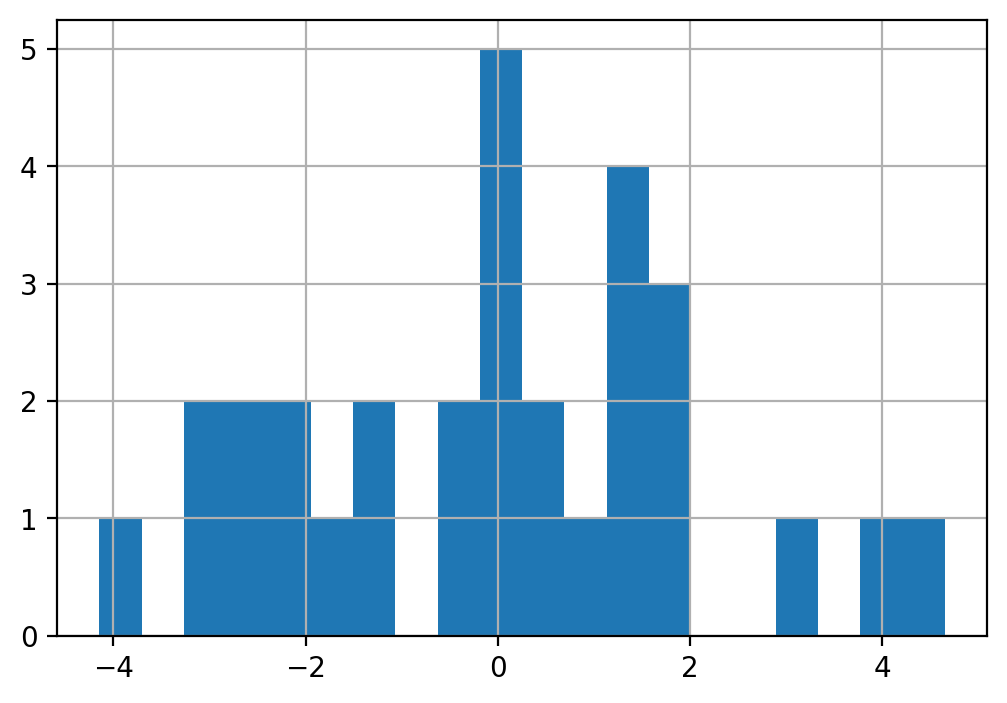
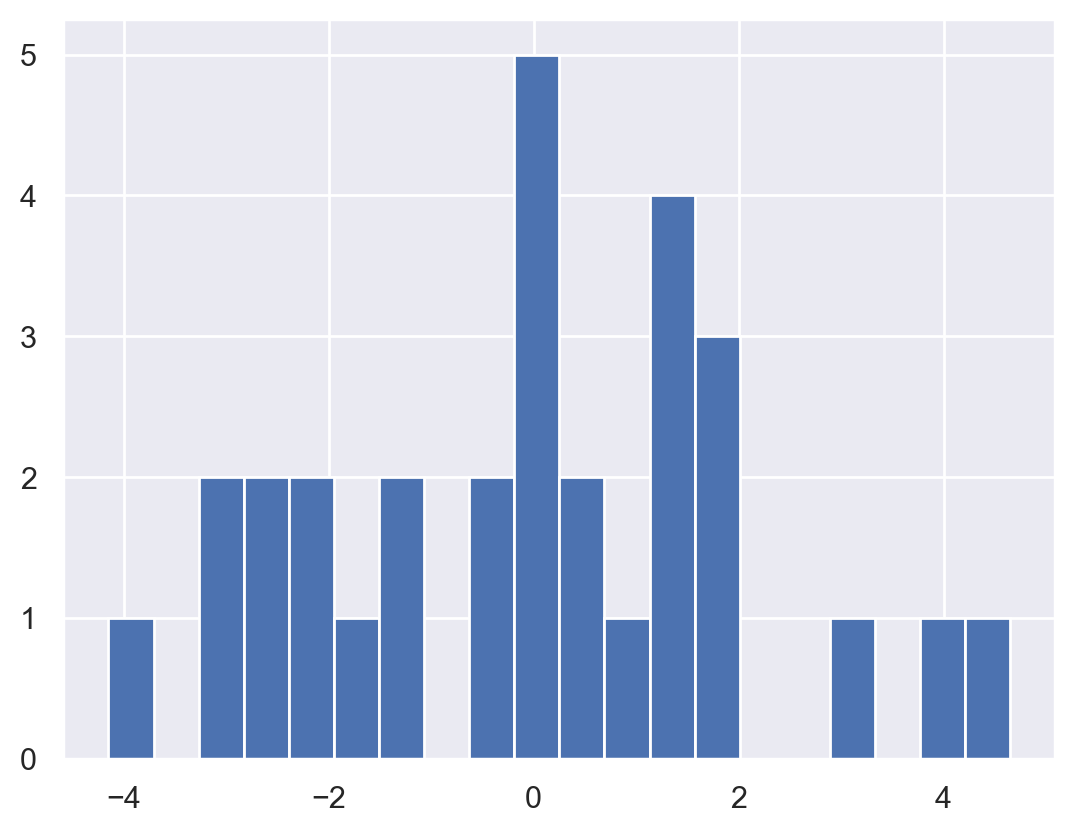
d

diff --git a/docs/contents/Modelling/model-basic.html b/docs/contents/Modelling/model-basic.html
@@ -605,7 +605,7 @@ window.Quarto = {
 <div>
 
 </div>
-<div id="cell-5" class="cell quarto-layout-panel" data-execution_count="45" data-layout-ncol="2">
+<div id="cell-5" class="cell quarto-layout-panel" data-layout-ncol="2" data-execution_count="45">
 <div class="quarto-layout-row">
 <div class="quarto-layout-cell" style="flex-basis: 50.0%;justify-content: center;">
 <p><img src="model-basic_files/figure-html/cell-5-output-1.png" class="img-fluid" width="630"></p>
@@ -791,7 +791,7 @@ The goal of a model is not to uncover truth, but to discover a simple approximat
 <section id="a-simple-model" class="level2">
 <h2 class="anchored" data-anchor-id="a-simple-model">A simple model</h2>
 <p>Data: <a href="https://www.dropbox.com/s/z37caxcbr0xbutt/sim1.csv?dl=1">sim1.csv</a></p>
-<div id="cell-15" class="cell" data-execution_count="3">
+<div id="cell-15" class="cell">
 <div class="sourceCode cell-code" id="cb3"><pre class="sourceCode python code-with-copy"><code class="sourceCode python"><span id="cb3-1"><a href="#cb3-1" aria-hidden="true" tabindex="-1"></a>sim1 <span class="op">=</span> pd.read_csv(<span class="st">"data/sim1.csv"</span>)</span></code><button title="Copy to Clipboard" class="code-copy-button"><i class="bi"></i></button></pre></div>
 </div>
 <div>
@@ -955,12 +955,12 @@ Model evaluation
 </div>
 <p>이렇게 squared error가 최소가 되도록 추정하는 것을 ordinary least squares(OLS) estimattion라고 함.<br>
 실제로는 위에서 처럼 grid search를 하지 않고, closed-form solution을 통해 바로 구할 수 있음.</p>
-<div id="cell-40" class="cell" data-execution_count="204">
+<div id="cell-40" class="cell" data-execution_count="11">
 <div class="sourceCode cell-code" id="cb10"><pre class="sourceCode python code-with-copy"><code class="sourceCode python"><span id="cb10-1"><a href="#cb10-1" aria-hidden="true" tabindex="-1"></a><span class="im">from</span> statsmodels.formula.api <span class="im">import</span> ols</span>
 <span id="cb10-2"><a href="#cb10-2" aria-hidden="true" tabindex="-1"></a></span>
 <span id="cb10-3"><a href="#cb10-3" aria-hidden="true" tabindex="-1"></a>mod <span class="op">=</span> ols(<span class="st">'y ~ x'</span>, data<span class="op">=</span>sim1).fit()</span>
-<span id="cb10-4"><a href="#cb10-4" aria-hidden="true" tabindex="-1"></a>display(mod.summary().tables[<span class="dv">0</span>], mod.summary().tables[<span class="dv">1</span>])</span></code><button title="Copy to Clipboard" class="code-copy-button"><i class="bi"></i></button></pre></div>
-<div class="cell-output cell-output-display">
+<span id="cb10-4"><a href="#cb10-4" aria-hidden="true" tabindex="-1"></a>mod.summary()</span></code><button title="Copy to Clipboard" class="code-copy-button"><i class="bi"></i></button></pre></div>
+<div class="cell-output cell-output-display" data-execution_count="11">
 <table class="simpletable caption-top table table-sm table-striped small" data-quarto-postprocess="true">
 <caption>OLS Regression Results</caption>
 <tbody>
@@ -984,13 +984,13 @@ Model evaluation
 </tr>
 <tr class="even">
 <td data-quarto-table-cell-role="th">Date:</td>
-<td>Thu, 04 Apr 2024</td>
+<td>Wed, 14 May 2025</td>
 <td data-quarto-table-cell-role="th">Prob (F-statistic):</td>
 <td>1.17e-14</td>
 </tr>
 <tr class="odd">
 <td data-quarto-table-cell-role="th">Time:</td>
-<td>05:56:18</td>
+<td>11:42:02</td>
 <td data-quarto-table-cell-role="th">Log-Likelihood:</td>
 <td>-65.226</td>
 </tr>
@@ -1020,8 +1020,8 @@ Model evaluation
 </tr>
 </tbody>
 </table>
-</div>
-<div class="cell-output cell-output-display">
+
+
 <table class="simpletable caption-top table table-sm table-striped small" data-quarto-postprocess="true">
 <tbody>
 <tr class="odd">
@@ -1053,6 +1053,37 @@ Model evaluation
 </tr>
 </tbody>
 </table>
+
+
+<table class="simpletable caption-top table table-sm table-striped small" data-quarto-postprocess="true">
+<tbody>
+<tr class="odd">
+<td data-quarto-table-cell-role="th">Omnibus:</td>
+<td>0.125</td>
+<td data-quarto-table-cell-role="th">Durbin-Watson:</td>
+<td>2.254</td>
+</tr>
+<tr class="even">
+<td data-quarto-table-cell-role="th">Prob(Omnibus):</td>
+<td>0.939</td>
+<td data-quarto-table-cell-role="th">Jarque-Bera (JB):</td>
+<td>0.333</td>
+</tr>
+<tr class="odd">
+<td data-quarto-table-cell-role="th">Skew:</td>
+<td>0.081</td>
+<td data-quarto-table-cell-role="th">Prob(JB):</td>
+<td>0.847</td>
+</tr>
+<tr class="even">
+<td data-quarto-table-cell-role="th">Kurtosis:</td>
+<td>2.510</td>
+<td data-quarto-table-cell-role="th">Cond. No.</td>
+<td>13.7</td>
+</tr>
+</tbody>
+</table>
+<br><br>Notes:<br>[1] Standard Errors assume that the covariance matrix of the errors is correctly specified.
 </div>
 </div>
 <p><br></p>
@@ -1166,10 +1197,10 @@ Important
 </ul>
 <div class="sourceCode" id="cb14"><pre class="sourceCode python code-with-copy"><code class="sourceCode python"><span id="cb14-1"><a href="#cb14-1" aria-hidden="true" tabindex="-1"></a>  ols(<span class="st">"y ~ x1 + x2"</span>, data <span class="op">=</span> df)</span></code><button title="Copy to Clipboard" class="code-copy-button"><i class="bi"></i></button></pre></div>
 <p>예를 들어, <code>SaratogaHouses</code> 데이터셋에서 집값을 거주공간의 넓이(<code>livingArea</code>)와 침실의 갯수(<code>bedrooms</code>)로 예측하는 경우</p>
-<div id="cell-48" class="cell" data-execution_count="3">
+<div id="cell-48" class="cell" data-execution_count="5">
 <div class="sourceCode cell-code" id="cb15"><pre class="sourceCode python code-with-copy"><code class="sourceCode python"><span id="cb15-1"><a href="#cb15-1" aria-hidden="true" tabindex="-1"></a>houses <span class="op">=</span> sm.datasets.get_rdataset(<span class="st">"SaratogaHouses"</span>, <span class="st">"mosaicData"</span>).data</span>
 <span id="cb15-2"><a href="#cb15-2" aria-hidden="true" tabindex="-1"></a>houses.head(<span class="dv">3</span>)</span></code><button title="Copy to Clipboard" class="code-copy-button"><i class="bi"></i></button></pre></div>
-<div class="cell-output cell-output-display" data-execution_count="3">
+<div class="cell-output cell-output-display" data-execution_count="5">
 <pre><code>    price  lotSize  age  landValue  livingArea  pctCollege  bedrooms  \
 0  132500     0.09   42      50000         906          35         2   
 1  181115     0.92    0      22300        1953          51         3   
@@ -1186,13 +1217,13 @@ Important
 2         No              No         No  </code></pre>
 </div>
 </div>
-<div id="cell-49" class="cell" data-execution_count="4">
+<div id="cell-49" class="cell" data-execution_count="6">
 <div class="sourceCode cell-code" id="cb17"><pre class="sourceCode python code-with-copy"><code class="sourceCode python"><span id="cb17-1"><a href="#cb17-1" aria-hidden="true" tabindex="-1"></a><span class="im">from</span> statsmodels.formula.api <span class="im">import</span> ols</span>
 <span id="cb17-2"><a href="#cb17-2" aria-hidden="true" tabindex="-1"></a></span>
 <span id="cb17-3"><a href="#cb17-3" aria-hidden="true" tabindex="-1"></a>houses[<span class="st">"livingArea2"</span>] <span class="op">=</span> houses[<span class="st">"livingArea"</span>] <span class="op">/</span> <span class="fl">35.5</span></span>
 <span id="cb17-4"><a href="#cb17-4" aria-hidden="true" tabindex="-1"></a>mod_houses <span class="op">=</span> ols(<span class="st">"price ~ livingArea2 + bedrooms"</span>, data<span class="op">=</span>houses).fit()</span>
 <span id="cb17-5"><a href="#cb17-5" aria-hidden="true" tabindex="-1"></a>mod_houses.params</span></code><button title="Copy to Clipboard" class="code-copy-button"><i class="bi"></i></button></pre></div>
-<div class="cell-output cell-output-display" data-execution_count="4">
+<div class="cell-output cell-output-display" data-execution_count="6">
 <pre><code>Intercept      36667.90
 livingArea2     4451.88
 bedrooms      -14196.77
@@ -1382,19 +1413,19 @@ Name: price, Length: 1728, dtype: int64</code></pre>
 [30 rows x 2 columns]</code></pre>
 </div>
 </div>
-<div id="cell-59" class="cell" data-execution_count="9">
+<div id="cell-59" class="cell" data-execution_count="12">
 <div class="sourceCode cell-code" id="cb28"><pre class="sourceCode python code-with-copy"><code class="sourceCode python"><span id="cb28-1"><a href="#cb28-1" aria-hidden="true" tabindex="-1"></a><span class="co"># create a grid for the range of x sim1: new data</span></span>
 <span id="cb28-2"><a href="#cb28-2" aria-hidden="true" tabindex="-1"></a>grid <span class="op">=</span> pd.DataFrame(<span class="bu">dict</span>(x<span class="op">=</span>np.linspace(sim1.x.<span class="bu">min</span>(), sim1.x.<span class="bu">max</span>(), <span class="dv">10</span>)))</span></code><button title="Copy to Clipboard" class="code-copy-button"><i class="bi"></i></button></pre></div>
 </div>
 <p>모델에 grid를 입력하여 prediction값을 추가</p>
-<div id="cell-61" class="cell" data-execution_count="10">
+<div id="cell-61" class="cell" data-execution_count="13">
 <div class="sourceCode cell-code" id="cb29"><pre class="sourceCode python code-with-copy"><code class="sourceCode python"><span id="cb29-1"><a href="#cb29-1" aria-hidden="true" tabindex="-1"></a><span class="co"># a model for sim1</span></span>
 <span id="cb29-2"><a href="#cb29-2" aria-hidden="true" tabindex="-1"></a><span class="im">from</span> statsmodels.formula.api <span class="im">import</span> ols</span>
 <span id="cb29-3"><a href="#cb29-3" aria-hidden="true" tabindex="-1"></a>sim1_mod <span class="op">=</span> ols(<span class="st">"y ~ x"</span>, data<span class="op">=</span>sim1).fit()</span>
 <span id="cb29-4"><a href="#cb29-4" aria-hidden="true" tabindex="-1"></a></span>
 <span id="cb29-5"><a href="#cb29-5" aria-hidden="true" tabindex="-1"></a>grid[<span class="st">"pred"</span>] <span class="op">=</span> sim1_mod.predict(grid) <span class="co"># column 이름이 매치되어야 함</span></span>
 <span id="cb29-6"><a href="#cb29-6" aria-hidden="true" tabindex="-1"></a>grid</span></code><button title="Copy to Clipboard" class="code-copy-button"><i class="bi"></i></button></pre></div>
-<div class="cell-output cell-output-display" data-execution_count="10">
+<div class="cell-output cell-output-display" data-execution_count="13">
 <pre><code>       x  pred
 0   1.00  6.27
 1   2.00  8.32
@@ -1431,8 +1462,8 @@ Name: price, Length: 1728, dtype: int64</code></pre>
 <section id="residuals-what-the-model-has-missed." class="level2">
 <h2 class="anchored" data-anchor-id="residuals-what-the-model-has-missed.">Residuals: what the model has missed.</h2>
 <p><span class="math inline">\(e = Y - \hat{Y}\)</span> : 관측값 - 예측값</p>
-<div id="cell-66" class="cell" data-execution_count="11">
-<div class="sourceCode cell-code" id="cb32"><pre class="sourceCode python code-with-copy"><code class="sourceCode python"><span id="cb32-1"><a href="#cb32-1" aria-hidden="true" tabindex="-1"></a>sim1[<span class="st">"fitted"</span>] <span class="op">=</span> sim1_mod.fittedvalues  <span class="co"># predicted values (Y_hat)</span></span>
+<div id="cell-66" class="cell">
+<div class="sourceCode cell-code" id="cb32"><pre class="sourceCode python code-with-copy"><code class="sourceCode python"><span id="cb32-1"><a href="#cb32-1" aria-hidden="true" tabindex="-1"></a>sim1[<span class="st">"fitted"</span>] <span class="op">=</span> sim1_mod.fittedvalues  <span class="co"># 또는 sim1_mod.predict(sim1): predicted values (Y_hat)</span></span>
 <span id="cb32-2"><a href="#cb32-2" aria-hidden="true" tabindex="-1"></a>sim1[<span class="st">"resid"</span>] <span class="op">=</span> sim1_mod.resid  <span class="co"># Y - Y_hat</span></span></code><button title="Copy to Clipboard" class="code-copy-button"><i class="bi"></i></button></pre></div>
 </div>
 <div id="cell-67" class="cell" data-execution_count="12">
@@ -1451,26 +1482,26 @@ Name: price, Length: 1728, dtype: int64</code></pre>
 </div>
 </div>
 <p>우선, residuals의 분포를 시각화해서 살펴보면,</p>
-<div id="cell-70" class="cell" data-execution_count="14">
-<div class="sourceCode cell-code" id="cb35"><pre class="sourceCode python code-with-copy"><code class="sourceCode python"><span id="cb35-1"><a href="#cb35-1" aria-hidden="true" tabindex="-1"></a>sim1[<span class="st">"resid"</span>].hist(bins<span class="op">=</span><span class="dv">20</span>)</span>
-<span id="cb35-2"><a href="#cb35-2" aria-hidden="true" tabindex="-1"></a>plt.show()</span></code><button title="Copy to Clipboard" class="code-copy-button"><i class="bi"></i></button></pre></div>
+<div id="cell-70" class="cell" data-execution_count="18">
+<div class="sourceCode cell-code" id="cb35"><pre class="sourceCode python code-with-copy"><code class="sourceCode python"><span id="cb35-1"><a href="#cb35-1" aria-hidden="true" tabindex="-1"></a>sns.set_theme()</span>
+<span id="cb35-2"><a href="#cb35-2" aria-hidden="true" tabindex="-1"></a>sim1[<span class="st">"resid"</span>].hist(bins<span class="op">=</span><span class="dv">20</span>)<span class="op">;</span></span></code><button title="Copy to Clipboard" class="code-copy-button"><i class="bi"></i></button></pre></div>
 <div class="cell-output cell-output-display">
 <div>
 <figure class="figure">
-<p><img src="model-basic_files/figure-html/cell-42-output-1.png" width="503" height="351" class="figure-img"></p>
+<p><img src="model-basic_files/figure-html/cell-42-output-1.png" width="537" height="416" class="figure-img"></p>
 </figure>
 </div>
 </div>
 </div>
 <p>예측 변수와 residuals의 관계를 시각화해서 보면,</p>
-<div id="cell-72" class="cell" data-execution_count="58">
+<div id="cell-72" class="cell" data-execution_count="19">
 <div class="sourceCode cell-code" id="cb36"><pre class="sourceCode python code-with-copy"><code class="sourceCode python"><span id="cb36-1"><a href="#cb36-1" aria-hidden="true" tabindex="-1"></a>(</span>
 <span id="cb36-2"><a href="#cb36-2" aria-hidden="true" tabindex="-1"></a>    so.Plot(sim1, x<span class="op">=</span><span class="st">'x'</span>, y<span class="op">=</span><span class="st">'resid'</span>)</span>
 <span id="cb36-3"><a href="#cb36-3" aria-hidden="true" tabindex="-1"></a>    .add(so.Dot())</span>
 <span id="cb36-4"><a href="#cb36-4" aria-hidden="true" tabindex="-1"></a>    .add(so.Line(), so.PolyFit(<span class="dv">5</span>))</span>
 <span id="cb36-5"><a href="#cb36-5" aria-hidden="true" tabindex="-1"></a>    .layout(size<span class="op">=</span>(<span class="dv">5</span>, <span class="dv">4</span>))</span>
 <span id="cb36-6"><a href="#cb36-6" aria-hidden="true" tabindex="-1"></a>)</span></code><button title="Copy to Clipboard" class="code-copy-button"><i class="bi"></i></button></pre></div>
-<div class="cell-output cell-output-display" data-execution_count="58">
+<div class="cell-output cell-output-display" data-execution_count="19">
 <div>
 <figure class="figure">
 <p><img src="model-basic_files/figure-html/cell-43-output-1.png" width="470" height="374" class="figure-img"></p>
@@ -1493,7 +1524,7 @@ Name: price, Length: 1728, dtype: int64</code></pre>
 <div>
 
 </div>
-<div id="cell-78" class="cell quarto-layout-panel" data-execution_count="72" data-layout-ncol="2">
+<div id="cell-78" class="cell quarto-layout-panel" data-layout-ncol="2" data-execution_count="72">
 <div class="quarto-layout-row">
 <div class="quarto-layout-cell" style="flex-basis: 50.0%;justify-content: center;">
 <p><img src="model-basic_files/figure-html/cell-47-output-1.png" class="img-fluid" width="630"></p>
@@ -1529,7 +1560,7 @@ Name: price, Length: 1728, dtype: int64</code></pre>
 <span id="cb37-16"><a href="#cb37-16" aria-hidden="true" tabindex="-1"></a>)</span>
 <span id="cb37-17"><a href="#cb37-17" aria-hidden="true" tabindex="-1"></a>display(p1, p2)</span></code><button title="Copy to Clipboard" class="code-copy-button"><i class="bi"></i></button></pre></div>
 </details>
-<div id="cell-80" class="cell quarto-layout-panel" data-execution_count="21" data-layout-ncol="2">
+<div id="cell-80" class="cell quarto-layout-panel" data-layout-ncol="2" data-execution_count="21">
 <div class="quarto-layout-row">
 <div class="quarto-layout-cell" style="flex-basis: 50.0%;justify-content: center;">
 <p><img src="model-basic_files/figure-html/cell-48-output-1.png" class="img-fluid" width="605"></p>
